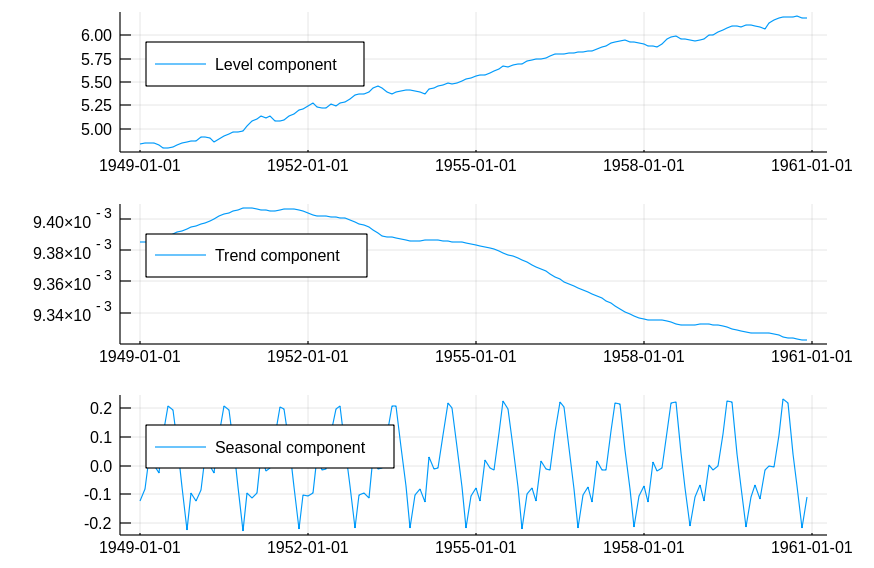
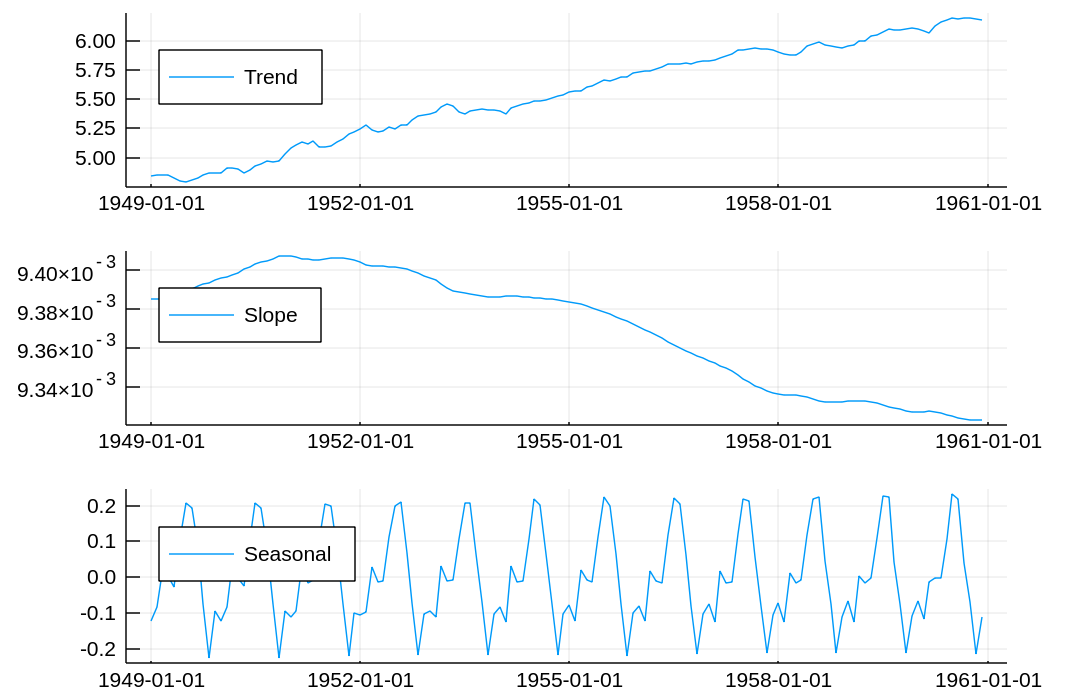
adress suggestions

diff --git a/docs/src/examples.md b/docs/src/examples.md
@@ -31,9 +31,9 @@ Estimating the model gives us the trend and seasonal components of the time seri
 ```julia
 ss = statespace(model)
 
-# Analyze its decomposition in level, trend and seasonal
+# Analyze its decomposition in trend, slope and seasonal components
 p2 = plot(AP.Date, [ss.smoother.alpha[:, 1] ss.smoother.alpha[:, 2] ss.smoother.alpha[:, 3]], layout = (3, 1),
-            label = ["Level component" "Trend component" "Seasonal component"], legend = :topleft)
+            label = ["Trend" "Slope" "Seasonal"], legend = :topleft)
 ```
 
 ![Trend and seasonal components for log of Air Passengers](./assets/logap_components.png)
@@ -54,10 +54,9 @@ p3 = plot!(p1, newdates, pred, label = "Forecast")
 ![Forecast for log of Air Passengers](./assets/logap_forecast.png)
 
 Another feature of StateSpaceModels.jl is to simulate scenarios of the time series. In this example
-we will simulate 10 scenarios for 24 months ahead
+we will simulate 10 scenarios for 24 months ahead.
 
 ```julia
-# 10 scenarios for 24 months ahead
 sim = simulate(ss, N, 10)
 p4 = plot!(p1, newdates, sim[:, 1, :], label = "", color = "Grey", width = 0.2)
 ```
